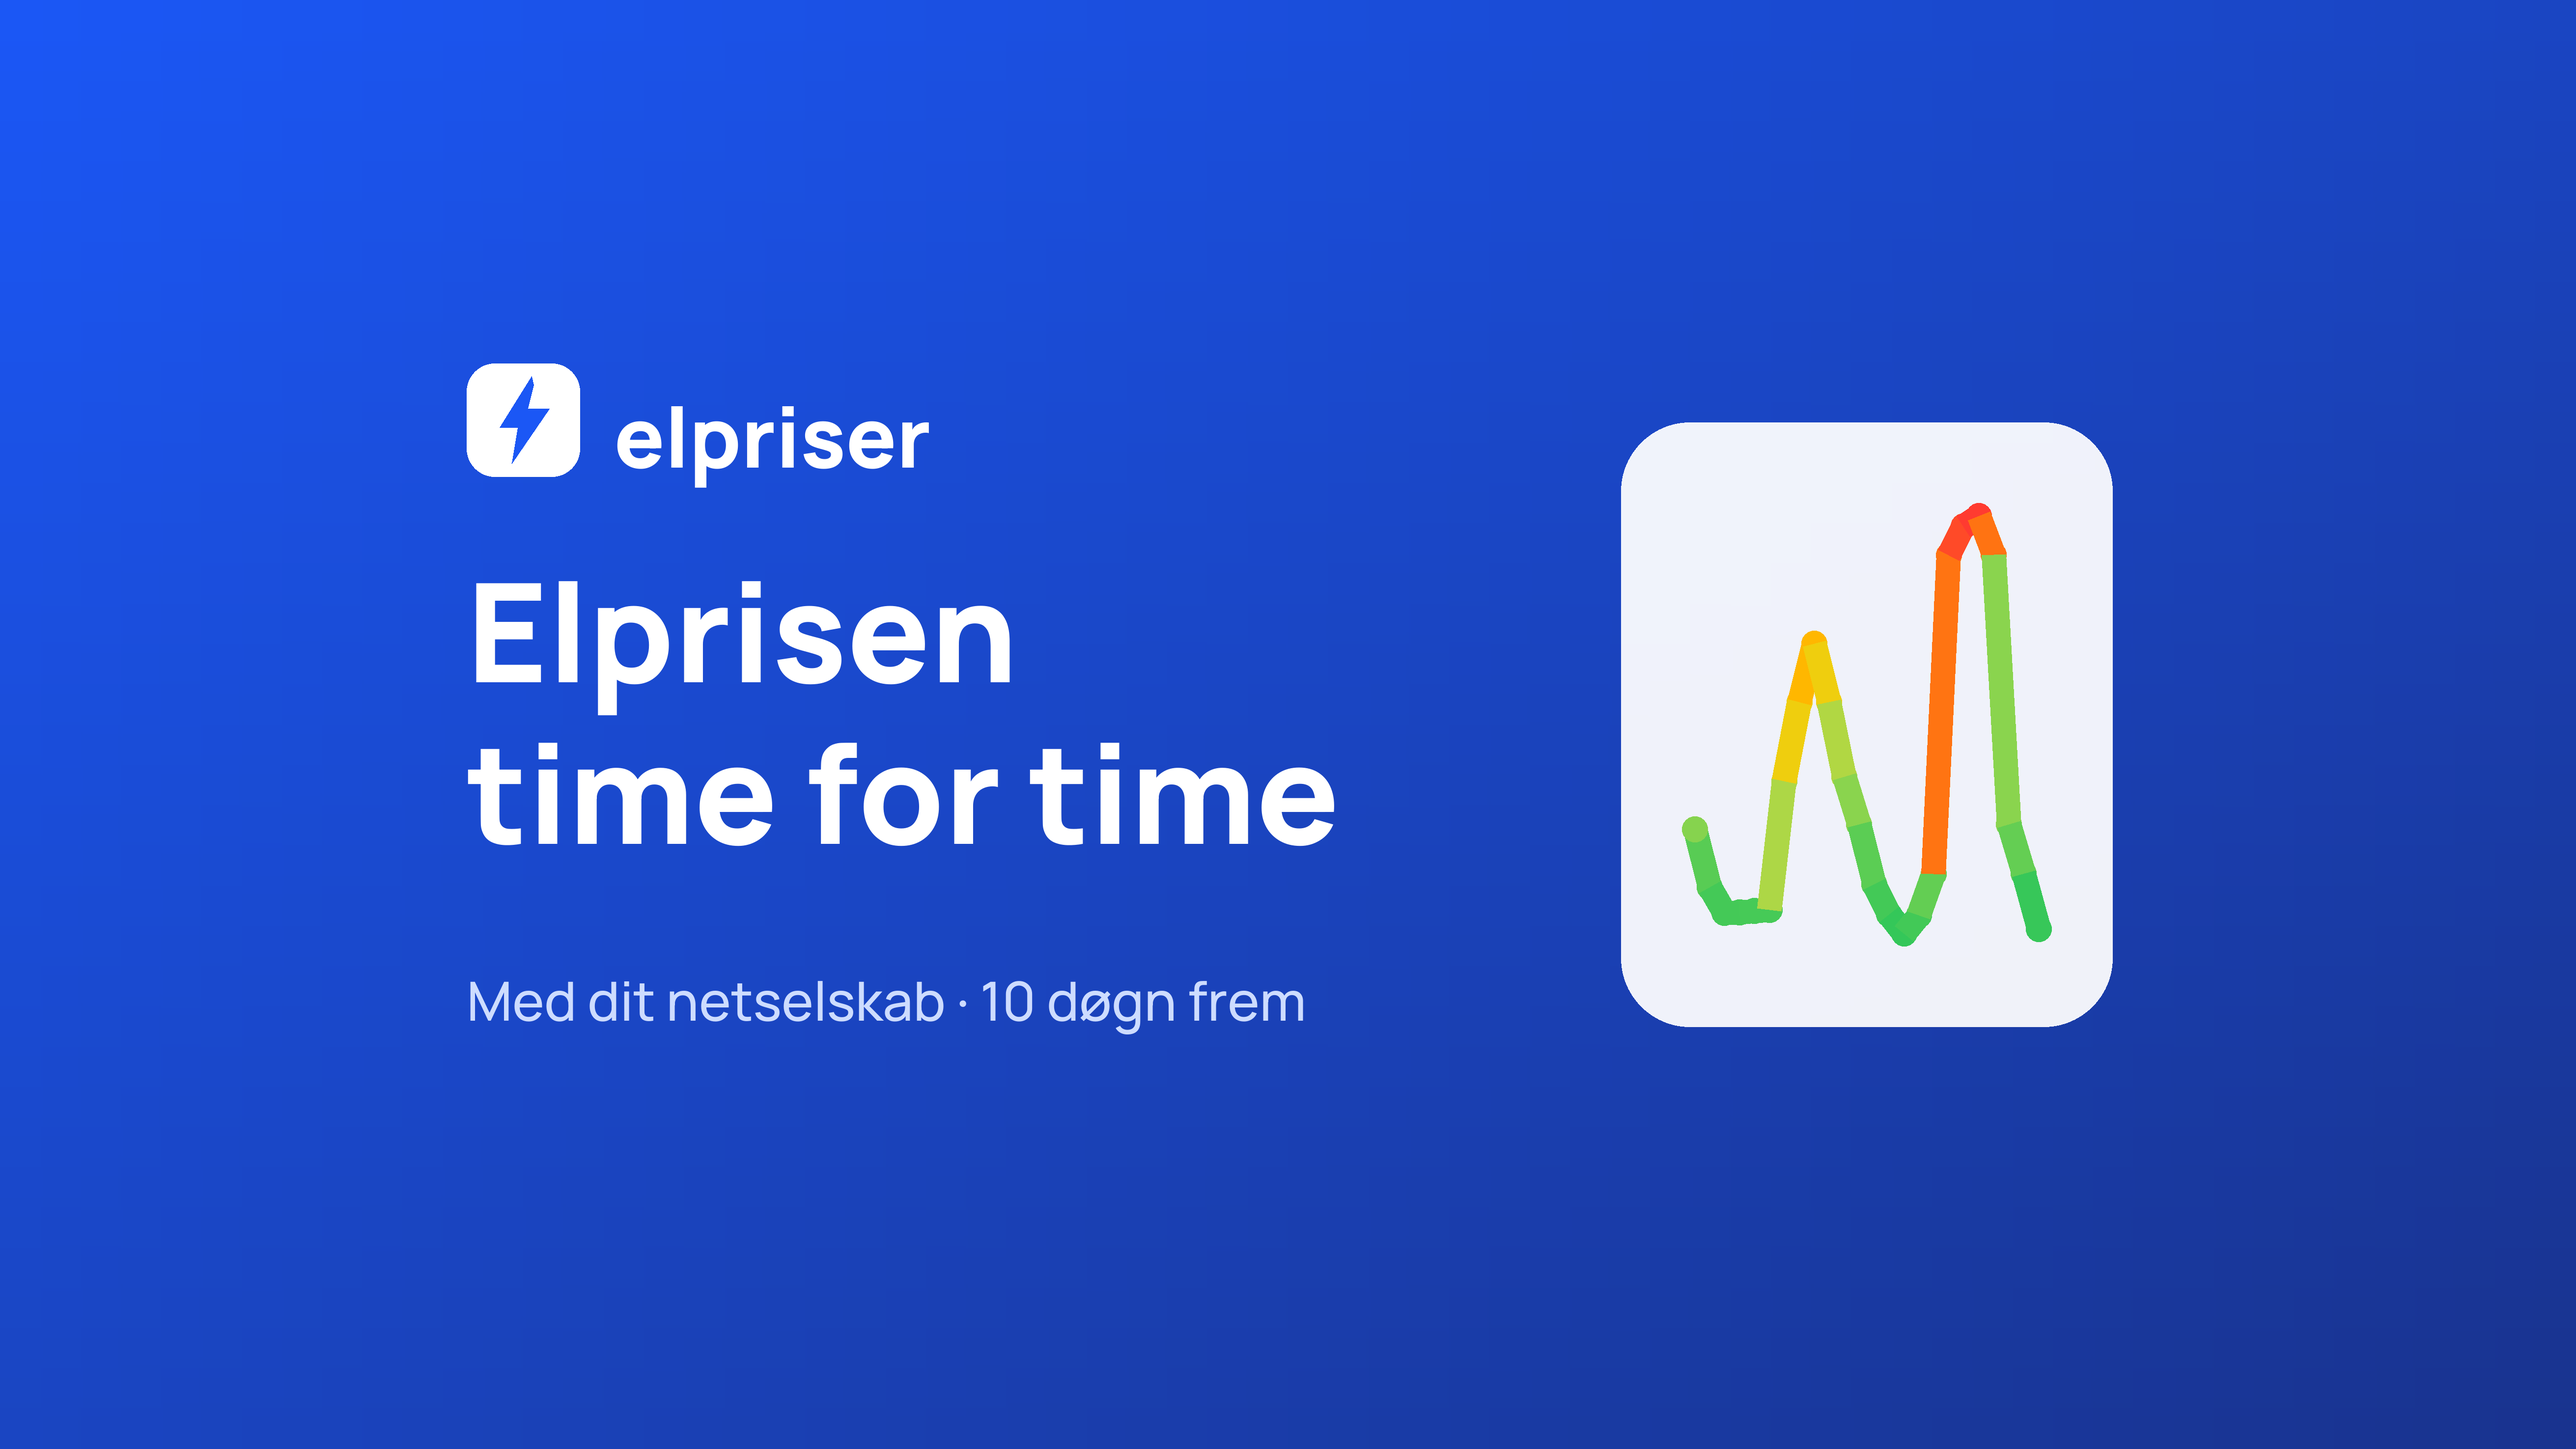
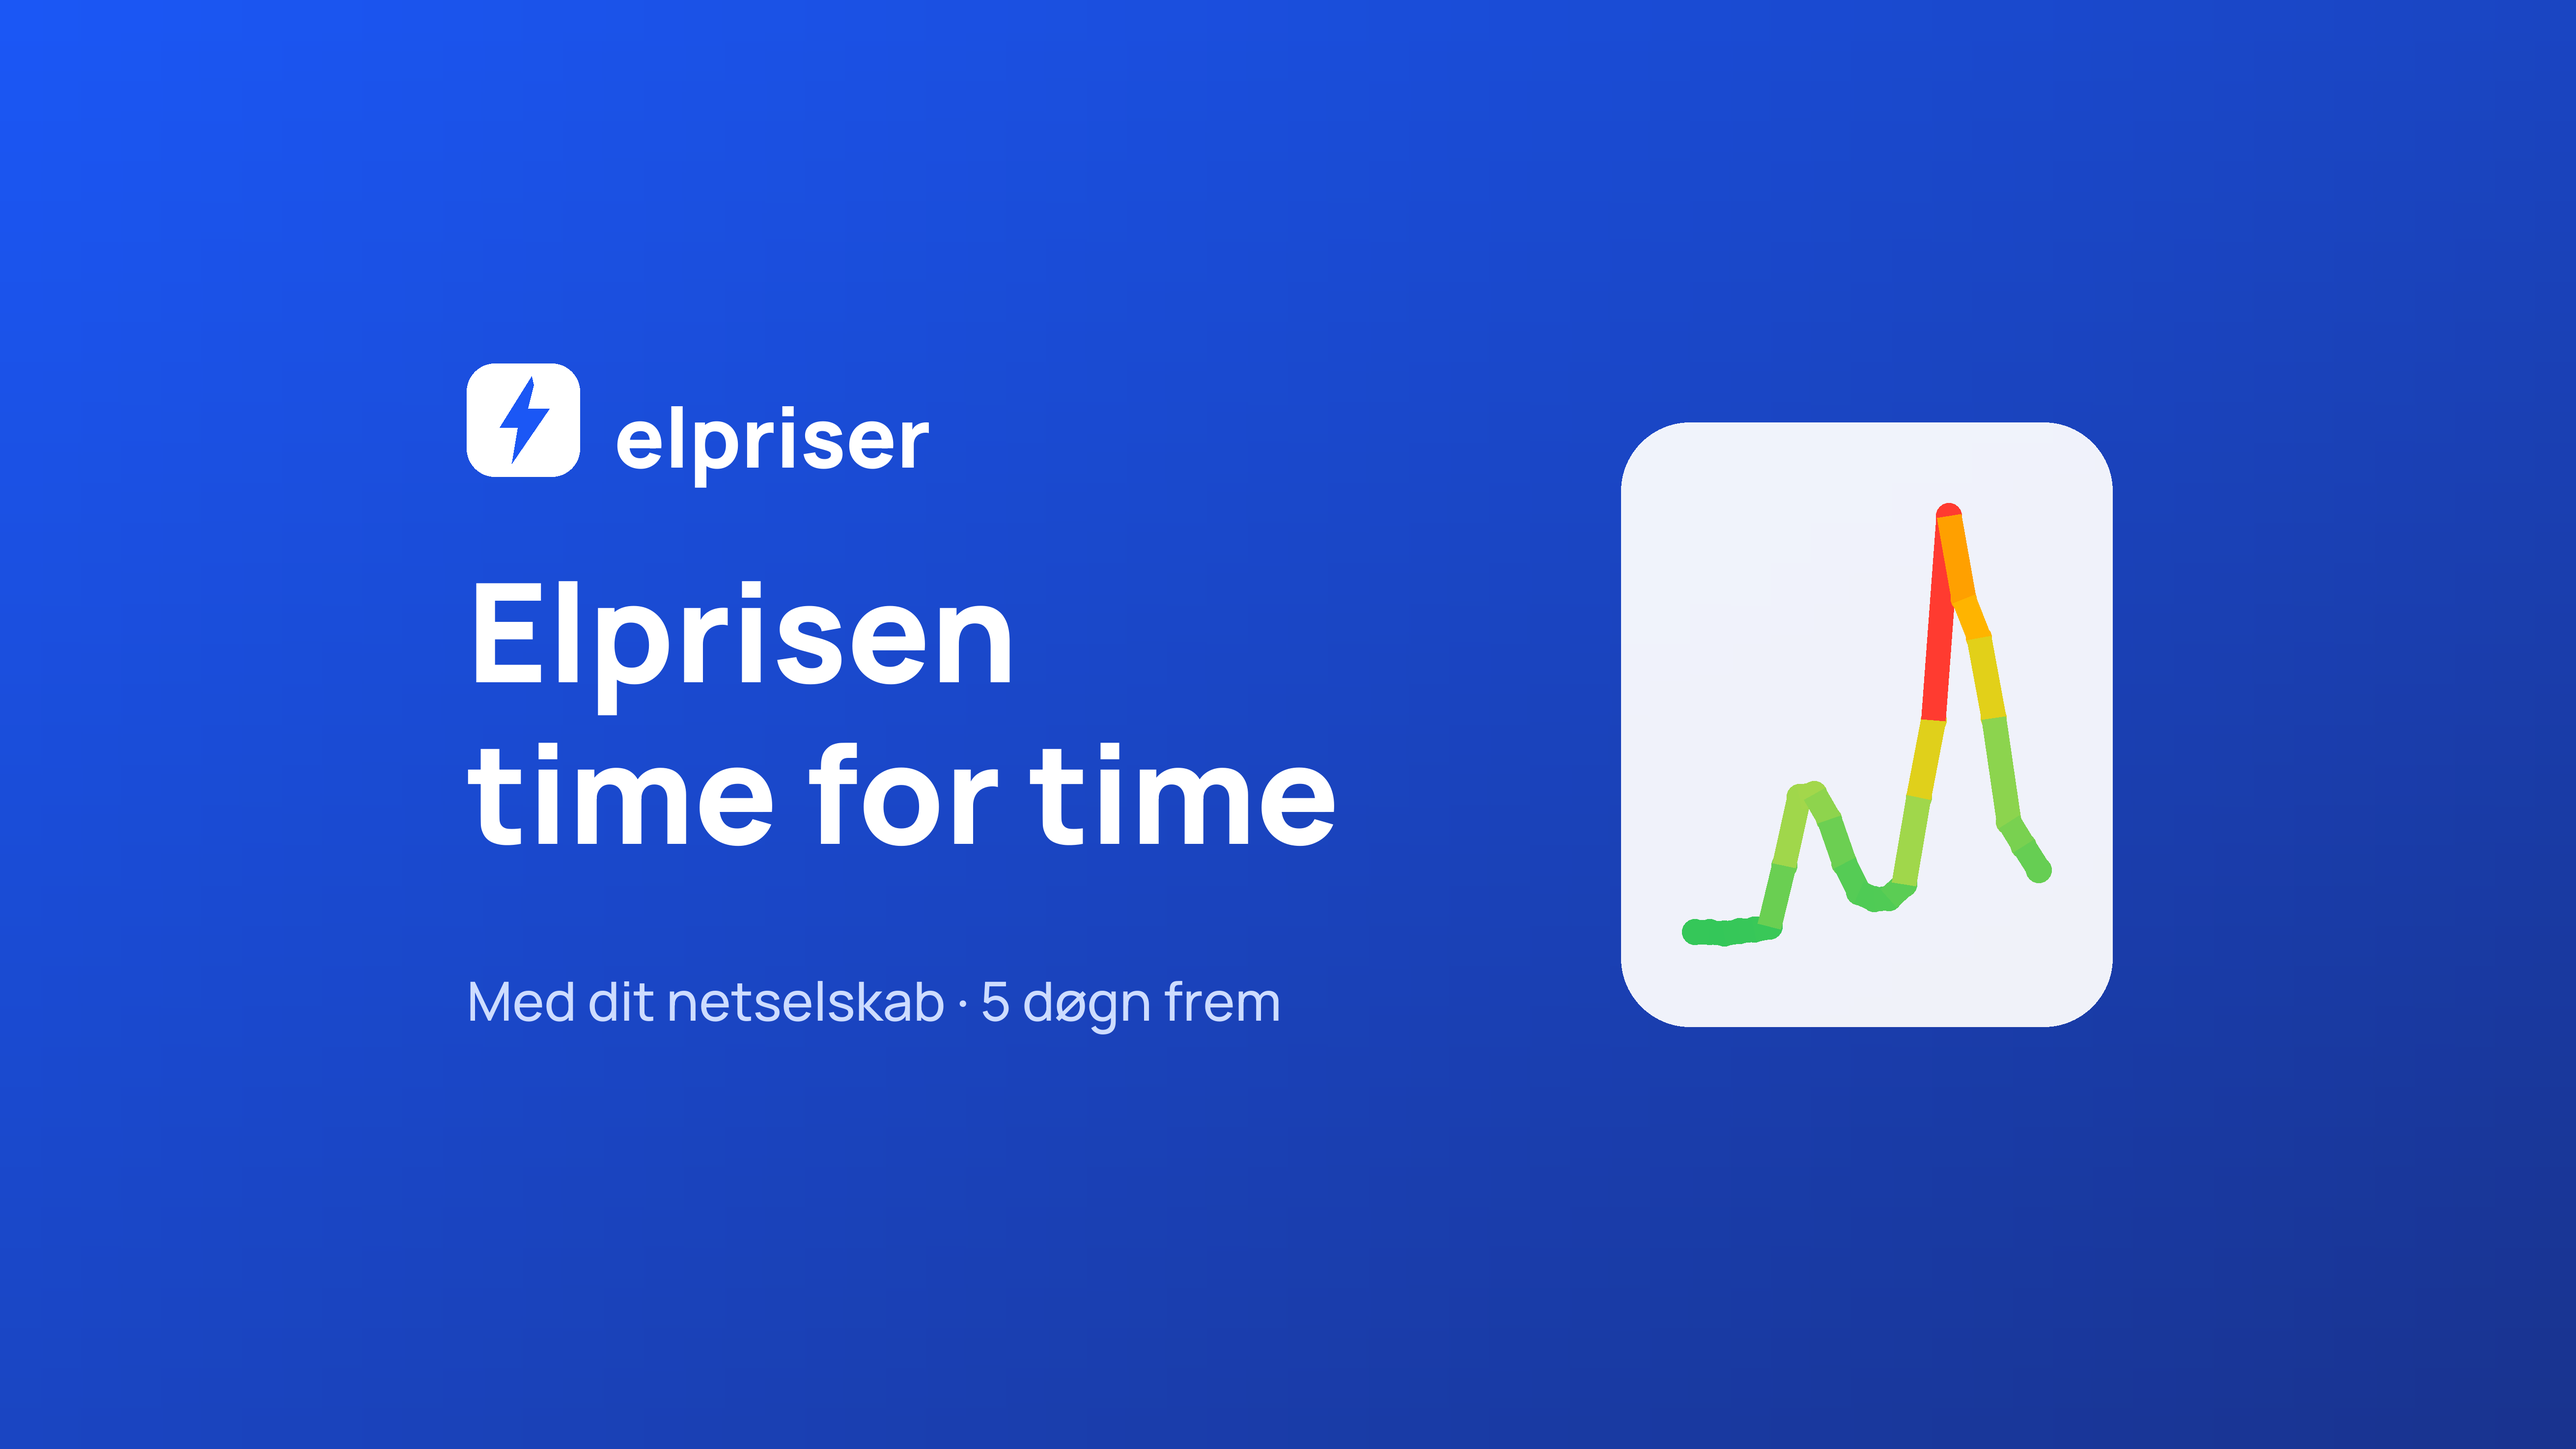
iOS 1.0.3 (5): the chart no longer blocks scrolling when a swipe starts on it (UIKit tap and horizontal-only scrub); header/search assets say 5 døgn; listing text updated

Changed region(s): [[0.6527, 0.3431, 0.8082, 0.6549], [0.373, 0.6861, 0.4973, 0.7173]]

diff --git a/ElpriserIOS/Sources/PriceChart.swift b/ElpriserIOS/Sources/PriceChart.swift
@@ -24,9 +24,6 @@ struct PriceBarChart: View {
     /// Større skrift og luft på tablets.
     var large = false
 
-    @State private var startSelection: Int?
-    @State private var active = false
-    @State private var scrolling = false
 
     private var gutter: CGFloat { large ? 36 : 26 }
     private let topRow: CGFloat = 20
@@ -36,11 +33,19 @@ struct PriceBarChart: View {
         GeometryReader { g in
             Canvas { ctx, size in draw(&ctx, size) }
                 .contentShape(Rectangle())
-                // Samtidig med rullen, så en lodret bevægelse stadig ruller siden; vandrette bevægelser scrubber.
-                .simultaneousGesture(
-                    DragGesture(minimumDistance: 0)
-                        .onChanged { v in drag(v, width: g.size.width) }
-                        .onEnded { v in dragEnded(v, width: g.size.width) })
+                // Berøringen er UIKit, ikke en SwiftUI-DragGesture: en SwiftUI-bevægelse på grafen (også med minimumsafstand) holder
+                // fingeren fast, så siden ikke kan rulles, når stryget starter på grafen — og grafen fylder det meste af skærmen.
+                // Her starter bevægelsen kun, når den er vandret; et lodret stryg går til siden.
+                .overlay(ChartTouch(
+                    onTap: { x in
+                        guard !spec.bars.isEmpty else { return }
+                        let i = index(at: x, width: g.size.width)
+                        selected = selected == i ? nil : i
+                    },
+                    onScrub: { x in
+                        guard !spec.bars.isEmpty else { return }
+                        selected = index(at: x, width: g.size.width)
+                    }))
         }
         .frame(minHeight: plotHeight + topRow + bottomRow, maxHeight: flexible ? .infinity : plotHeight + topRow + bottomRow)
         .accessibilityElement(children: .ignore)
@@ -57,27 +62,6 @@ struct PriceBarChart: View {
         let n = spec.bars.count
         let w = Swift.max(width - gutter, 1)
         return Swift.min(Swift.max(Int(((x - gutter) / w * CGFloat(n)).rounded(.down)), 0), n - 1)
-    }
-
-    private func drag(_ v: DragGesture.Value, width: CGFloat) {
-        guard !spec.bars.isEmpty else { return }
-        if !active { active = true; scrolling = false; startSelection = selected }
-        if scrolling { return }
-        // Tydeligt lodret: brugeren ruller siden. Slip tippet, som det var, og lad rullen arbejde.
-        if abs(v.translation.height) > 12 && abs(v.translation.height) > abs(v.translation.width) {
-            scrolling = true
-            selected = startSelection
-            return
-        }
-        selected = index(at: v.location.x, width: width)
-    }
-
-    private func dragEnded(_ v: DragGesture.Value, width: CGFloat) {
-        defer { active = false; scrolling = false; startSelection = nil }
-        guard !scrolling, !spec.bars.isEmpty else { return }
-        let moved = hypot(v.translation.width, v.translation.height) > 6
-        // Et tryk på den allerede valgte søjle slukker tippet igen; ellers bliver det stående.
-        if !moved, let s = startSelection, s == index(at: v.location.x, width: width) { selected = nil }
     }
 
     // MARK: tegning
@@ -182,6 +166,43 @@ struct PriceBarChart: View {
             ctx.fill(Path(roundedRect: box.offsetBy(dx: 0, dy: 2), cornerRadius: 9), with: .color(.black.opacity(0.18)))
             ctx.fill(Path(roundedRect: box, cornerRadius: 9), with: .color(T.tooltip))
             ctx.draw(r, at: CGPoint(x: box.midX, y: box.midY), anchor: .center)
+        }
+    }
+}
+
+
+/// Tryk og vandret scrubbing på grafen, som UIKit-bevægelser: den vandrette bevægelse begynder kun, når fingeren bevæger sig mere
+/// vandret end lodret, så lodrette stryg stadig ruller siden under grafen.
+private struct ChartTouch: UIViewRepresentable {
+    var onTap: (CGFloat) -> Void
+    var onScrub: (CGFloat) -> Void
+
+    func makeUIView(context: Context) -> UIView {
+        let v = UIView()
+        v.backgroundColor = .clear
+        let pan = UIPanGestureRecognizer(target: context.coordinator, action: #selector(Coordinator.pan(_:)))
+        pan.delegate = context.coordinator
+        v.addGestureRecognizer(pan)
+        v.addGestureRecognizer(UITapGestureRecognizer(target: context.coordinator, action: #selector(Coordinator.tap(_:))))
+        return v
+    }
+
+    func updateUIView(_ view: UIView, context: Context) { context.coordinator.parent = self }
+    func makeCoordinator() -> Coordinator { Coordinator(self) }
+
+    final class Coordinator: NSObject, UIGestureRecognizerDelegate {
+        var parent: ChartTouch
+        init(_ parent: ChartTouch) { self.parent = parent }
+
+        @objc func pan(_ g: UIPanGestureRecognizer) {
+            if g.state == .began || g.state == .changed { parent.onScrub(g.location(in: g.view).x) }
+        }
+        @objc func tap(_ g: UITapGestureRecognizer) { parent.onTap(g.location(in: g.view).x) }
+
+        func gestureRecognizerShouldBegin(_ g: UIGestureRecognizer) -> Bool {
+            guard let p = g as? UIPanGestureRecognizer else { return true }
+            let v = p.velocity(in: p.view)
+            return abs(v.x) > abs(v.y)
         }
     }
 }

diff --git a/ElpriserIOS/store/make_assets.py b/ElpriserIOS/store/make_assets.py
@@ -68,7 +68,7 @@ def header():
     logo(d, x, 740, 230)
     d.text((x + 230 + 70, 770), "elpriser", font=font(170, 800), fill="white")
     d.text((x, 1090), "Elprisen\ntime for time", font=font(280, 800), fill="white", spacing=30)
-    d.text((x, 1960), "Med dit netselskab · 10 døgn frem", font=font(110, 500), fill=(205, 220, 255))
+    d.text((x, 1960), "Med dit netselskab · 5 døgn frem", font=font(110, 500), fill=(205, 220, 255))
     # kurve med dagens rigtige priser i et hvidt kort til højre
     vals = prices()
     px0, px1, py0, py1 = 3450, 4150, 1050, 1900
@@ -107,7 +107,7 @@ def search():
     img = gradient(W, H).convert("RGBA")
     d = ImageDraw.Draw(img)
     d.text((W // 2, 520), "Elprisen time for time", font=font(300, 800), fill="white", anchor="mm")
-    d.text((W // 2, 800), "Med dit netselskab · 10 døgn frem · til iPhone og iPad", font=font(105, 500), fill=(205, 220, 255), anchor="mm")
+    d.text((W // 2, 800), "Med dit netselskab · 5 døgn frem · til iPhone og iPad", font=font(105, 500), fill=(205, 220, 255), anchor="mm")
     ph = 1700
     shots = ["02_nu.png", "03_prognose.png", "04_time.png"]
     gap = 170

diff --git a/ElpriserIOS/store/listing-da.md b/ElpriserIOS/store/listing-da.md
@@ -2,7 +2,7 @@
 
 **Navn (maks. 30):** Elpriser – time for time
 **Undertitel (maks. 30):** Elprisen med dit netselskab
-**Promoveringstekst (maks. 170):** Se elprisen lige nu, time for time og 10 døgn frem — med nettarif, afgifter og moms for dit netselskab. Find det med et tryk, og planlæg efter de billigste timer.
+**Promoveringstekst (maks. 170):** Se elprisen lige nu, time for time og 5 døgn frem — med nettarif, afgifter og moms for dit netselskab. Find det med et tryk, og planlæg efter de billigste timer.
 **Nøgleord (maks. 100):** elpris,strøm,spotpris,nettarif,netselskab,elafgift,prognose,billig strøm,tariffer,elbil,varmepumpe
 **Support-URL:** https://elpriser.org
 **Marketing-URL:** https://elpriser.org
@@ -12,14 +12,14 @@
 
 **Beskrivelse (maks. 4000):**
 
-Elpriser viser, hvad strømmen koster lige nu – time for time – og hvornår den bliver billigere de næste 10 døgn.
+Elpriser viser, hvad strømmen koster lige nu – time for time – og hvornår den bliver billigere de næste 5 døgn.
 
-• Prisen lige nu: se timeprisen, om den er billig eller dyr, og hvor grøn strømmen er (CO₂ pr. kWh).
+• Prisen lige nu: se timeprisen, om den er billig, middel eller dyr, og hvilken time de næste 24 timer der er billigst.
 • Din rigtige pris: vælg dit netselskab, så prisen inkluderer nettarif, Energinets tariffer, elafgift og moms – ligesom på din regning. Du kan også se ren spotpris.
 • Find netselskabet automatisk: tryk på knappen, og appen finder netselskabet ud fra din position. Positionen bruges kun én gang og gemmes aldrig – kun netselskabets navn gemmes på din enhed.
-• 10 døgn frem: faktiske børspriser og en åben modelprognose med usikkerhedsbånd.
+• 2 eller 5 døgn frem: faktiske børspriser og en åben modelprognose.
 • Time for time: se, hvordan prisen er sammensat – spotpris, nettarif, afgifter og moms.
-• Automation: se de billigste timer til varmepumpe, elbil og vandvarmer og hvor meget du sparer – og kopiér planen til Home Assistant eller Shelly.
+• Smart hjem: se de billigste timer til varmepumpe, elbil og vandvarmer og hvor meget du sparer – og kopiér planen til Home Assistant eller Shelly.
 • Til iPhone og iPad, med lys og mørk tilstand.
 
 Ingen reklamer. Ingen konto. Priserne kommer fra Energi Data Service (Energinet) og ENTSO-E, og prognosemodellen er åben på Hugging Face.
